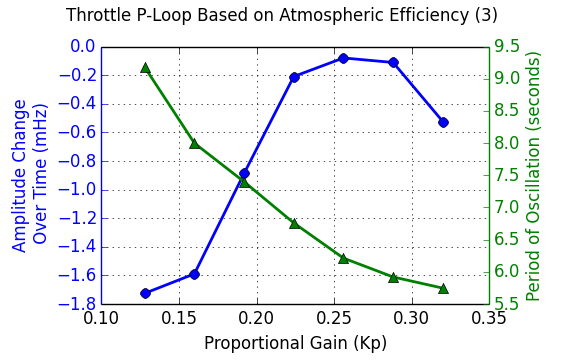
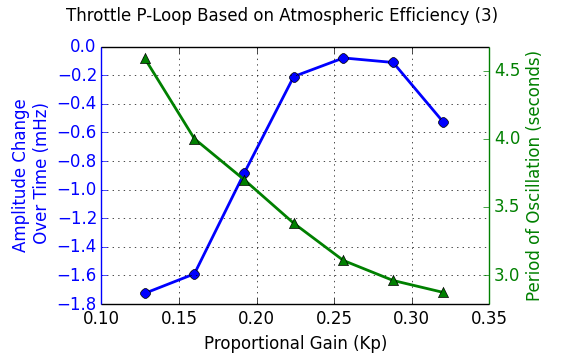
fixed error on period measurement.

diff --git a/source/summary_topics/pidloop_tutorial.md b/source/summary_topics/pidloop_tutorial.md
@@ -250,7 +250,7 @@ Give this script a short name, something like "tune.txt" so that running is simp
     copy tune from 0.
     run tune(0.5).
 
-After every launch completes, you'll have to go into the archive directory and rename the output logfile. Something like "throttle_log.txt" --> "throttle.01.log" will help if you increment the index number each time. To analyze the data, plot the offset (P) as a function of time (t). Here, we show the results for three values of Kp: 0.002, 0.016 and 0.160, including the maximum TWR when Kp = 0.002 as the top x-axis:
+After every launch completes, you'll have to go into the archive directory and rename the output logfile. Something like "throttle_log.txt" --> "throttle.01.log" will help if you increment the index number each time. To analyze the data, plot the offset (P) as a function of time (t). Here, we show the results for three values of Kp: 0.002, 0.016 and 0.160, including the maximum TWR when Kp = 0.002 as the top x-axis. The maximum TWR dependence on time is different for the three values of Kp, but not by a lot.
 
 ![PID Tuning 1](../images/pidtune/pidtune1.png)
 
@@ -262,8 +262,8 @@ This is done for each value of Kp and the slopes of the fitted lines are plotted
 
 ![PID Tuning 3](../images/pidtune/pidtune3.png)
 
-The period of oscillation was averaged over the interval and plotted on top of the amplitude change over time. Notice the turn over that occurs when Kp reaches approximately 0.26. This will mark the "ultimate gain" and 6.0 will be used as the associated period of oscillation. It is left as an exercise for the reader to implement a full PID-loop using the classic PID values (see table above): Kp = 0.156, Ki = 0.052, Kd = 0.117, producing this behavior:
+The period of oscillation was averaged over the interval and plotted on top of the amplitude change over time. Notice the turn over that occurs when Kp reaches approximately 0.26. This will mark the "ultimate gain" and 3.1 seconds will be used as the associated period of oscillation. It is left as an exercise for the reader to implement a full PID-loop using the classic PID values (see table above): Kp = 0.156, Ki = 0.101, Kd = 0.060, producing this behavior:
 
 ![PID Tuning 4](../images/pidtune/pidtune4.png)
 
-The settling time of the feedback loop is now less than 10 seconds! The inset plot has the same axes as the parent and is there to show the long-term stability of the final PID-loop.
+The settling time of the feedback loop is now less than 10 seconds! The inset plot has the same axes as the parent and shows the long-term stability of the final PID-loop.
